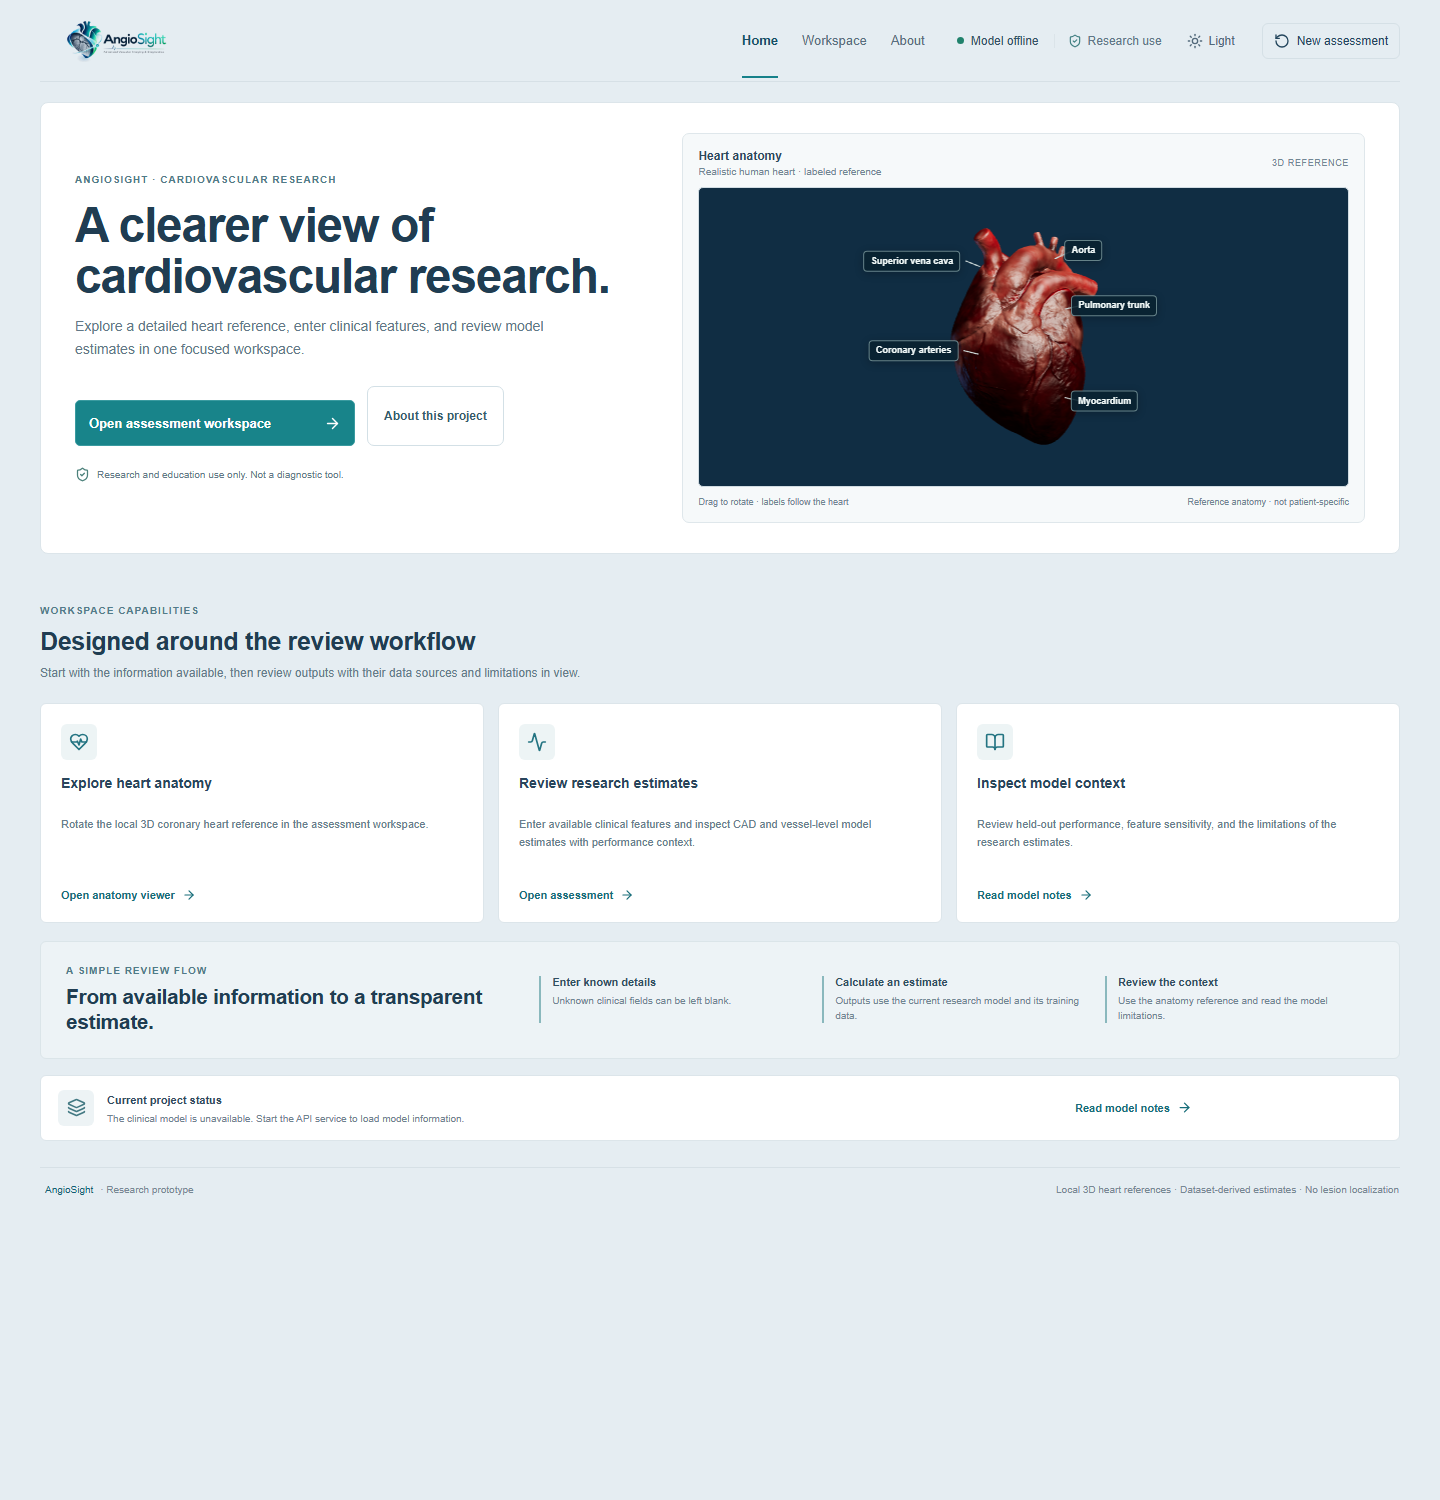
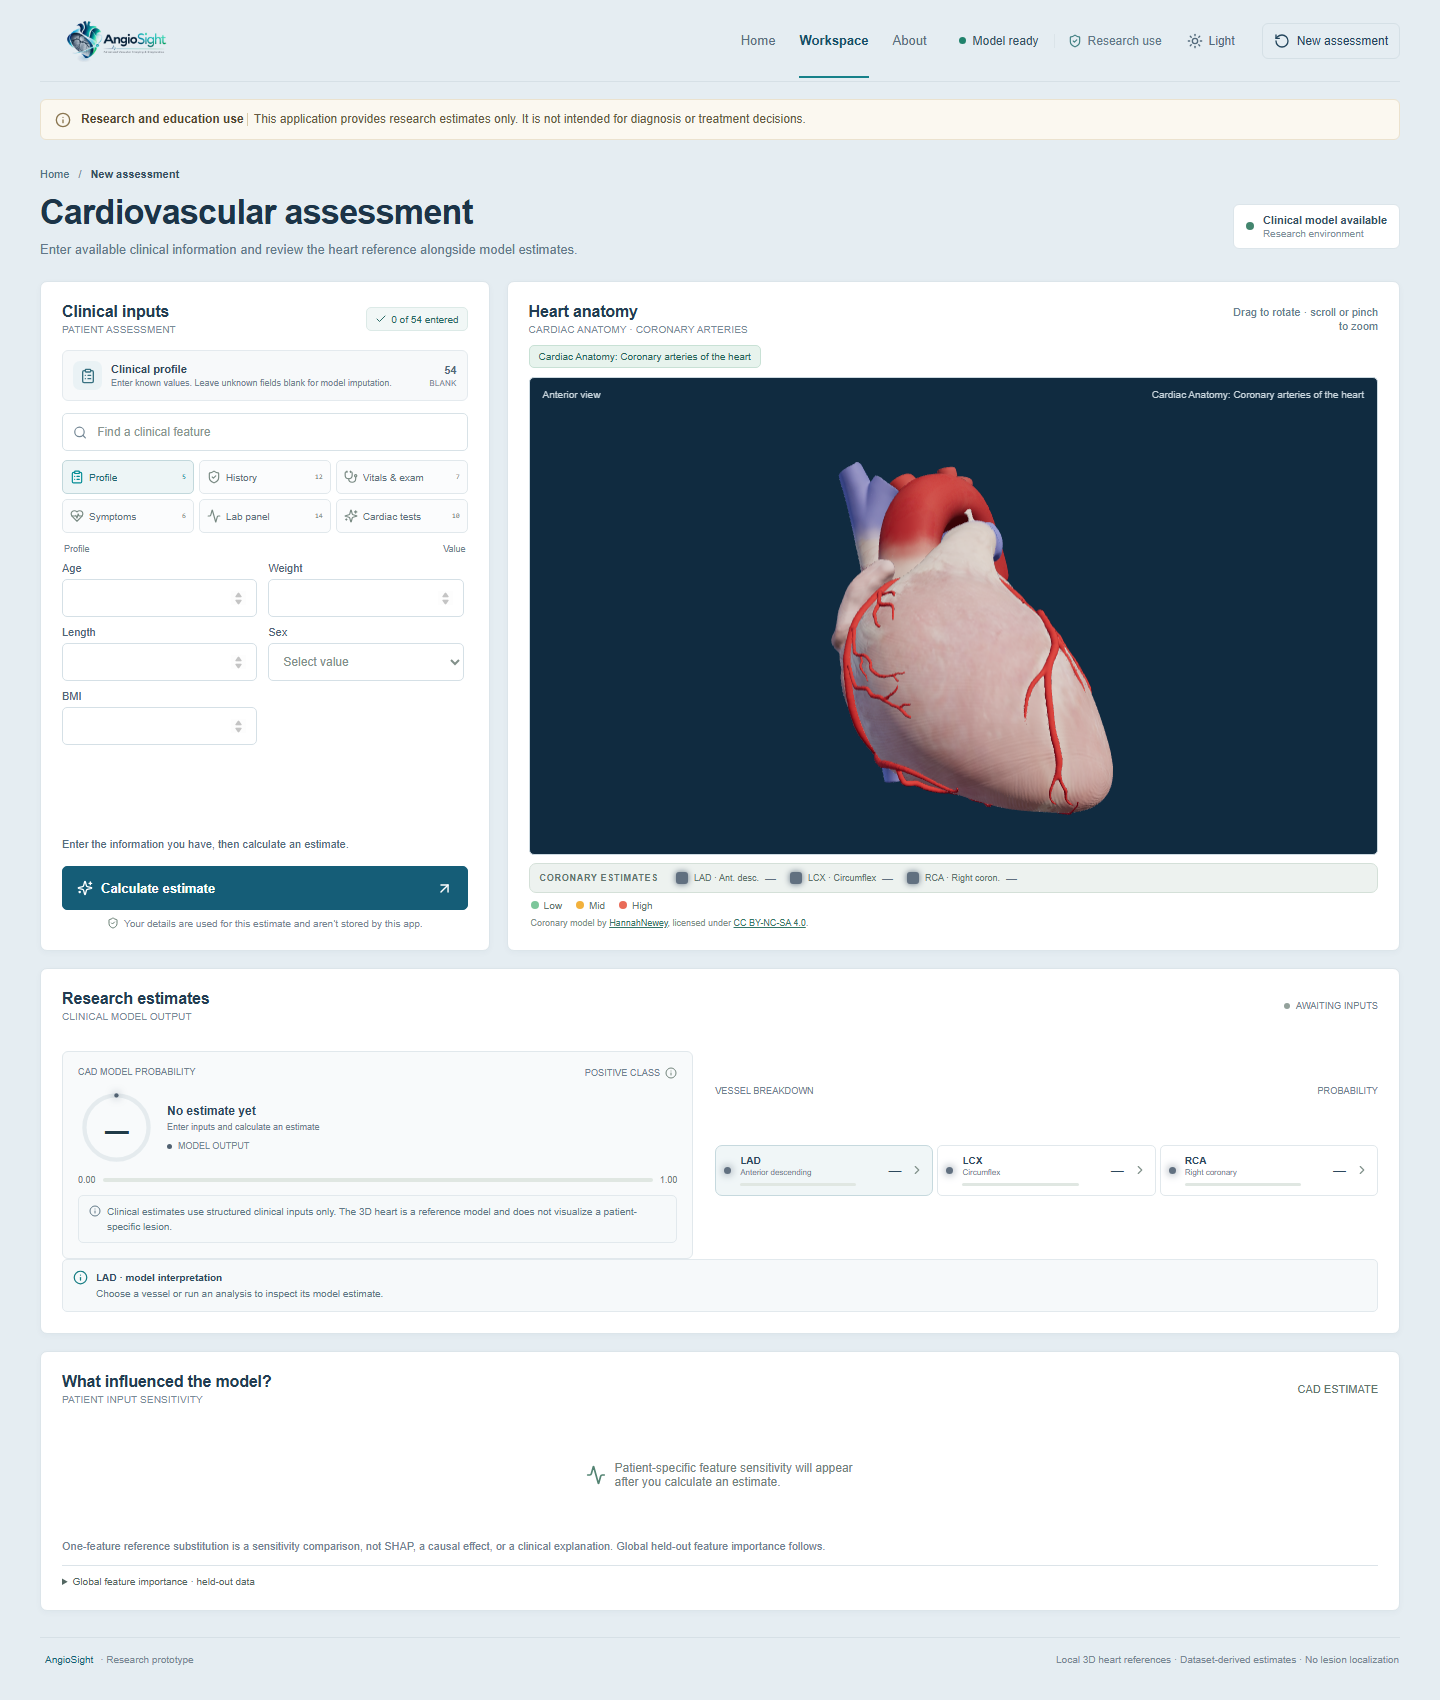
Use current assessment workspace in README

diff --git a/README.md b/README.md
@@ -24,7 +24,7 @@
 </p>
 
 <p align="center">
-  <img src="docs/images/app-overview.png" alt="Current AngioSight homepage with a labeled interactive heart and review workflow" width="900">
+  <img src="docs/images/app-overview.png" alt="Current AngioSight assessment workspace with clinical inputs, live model status, research estimates, and the interactive coronary heart" width="900">
 </p>
 
 > [!CAUTION]
